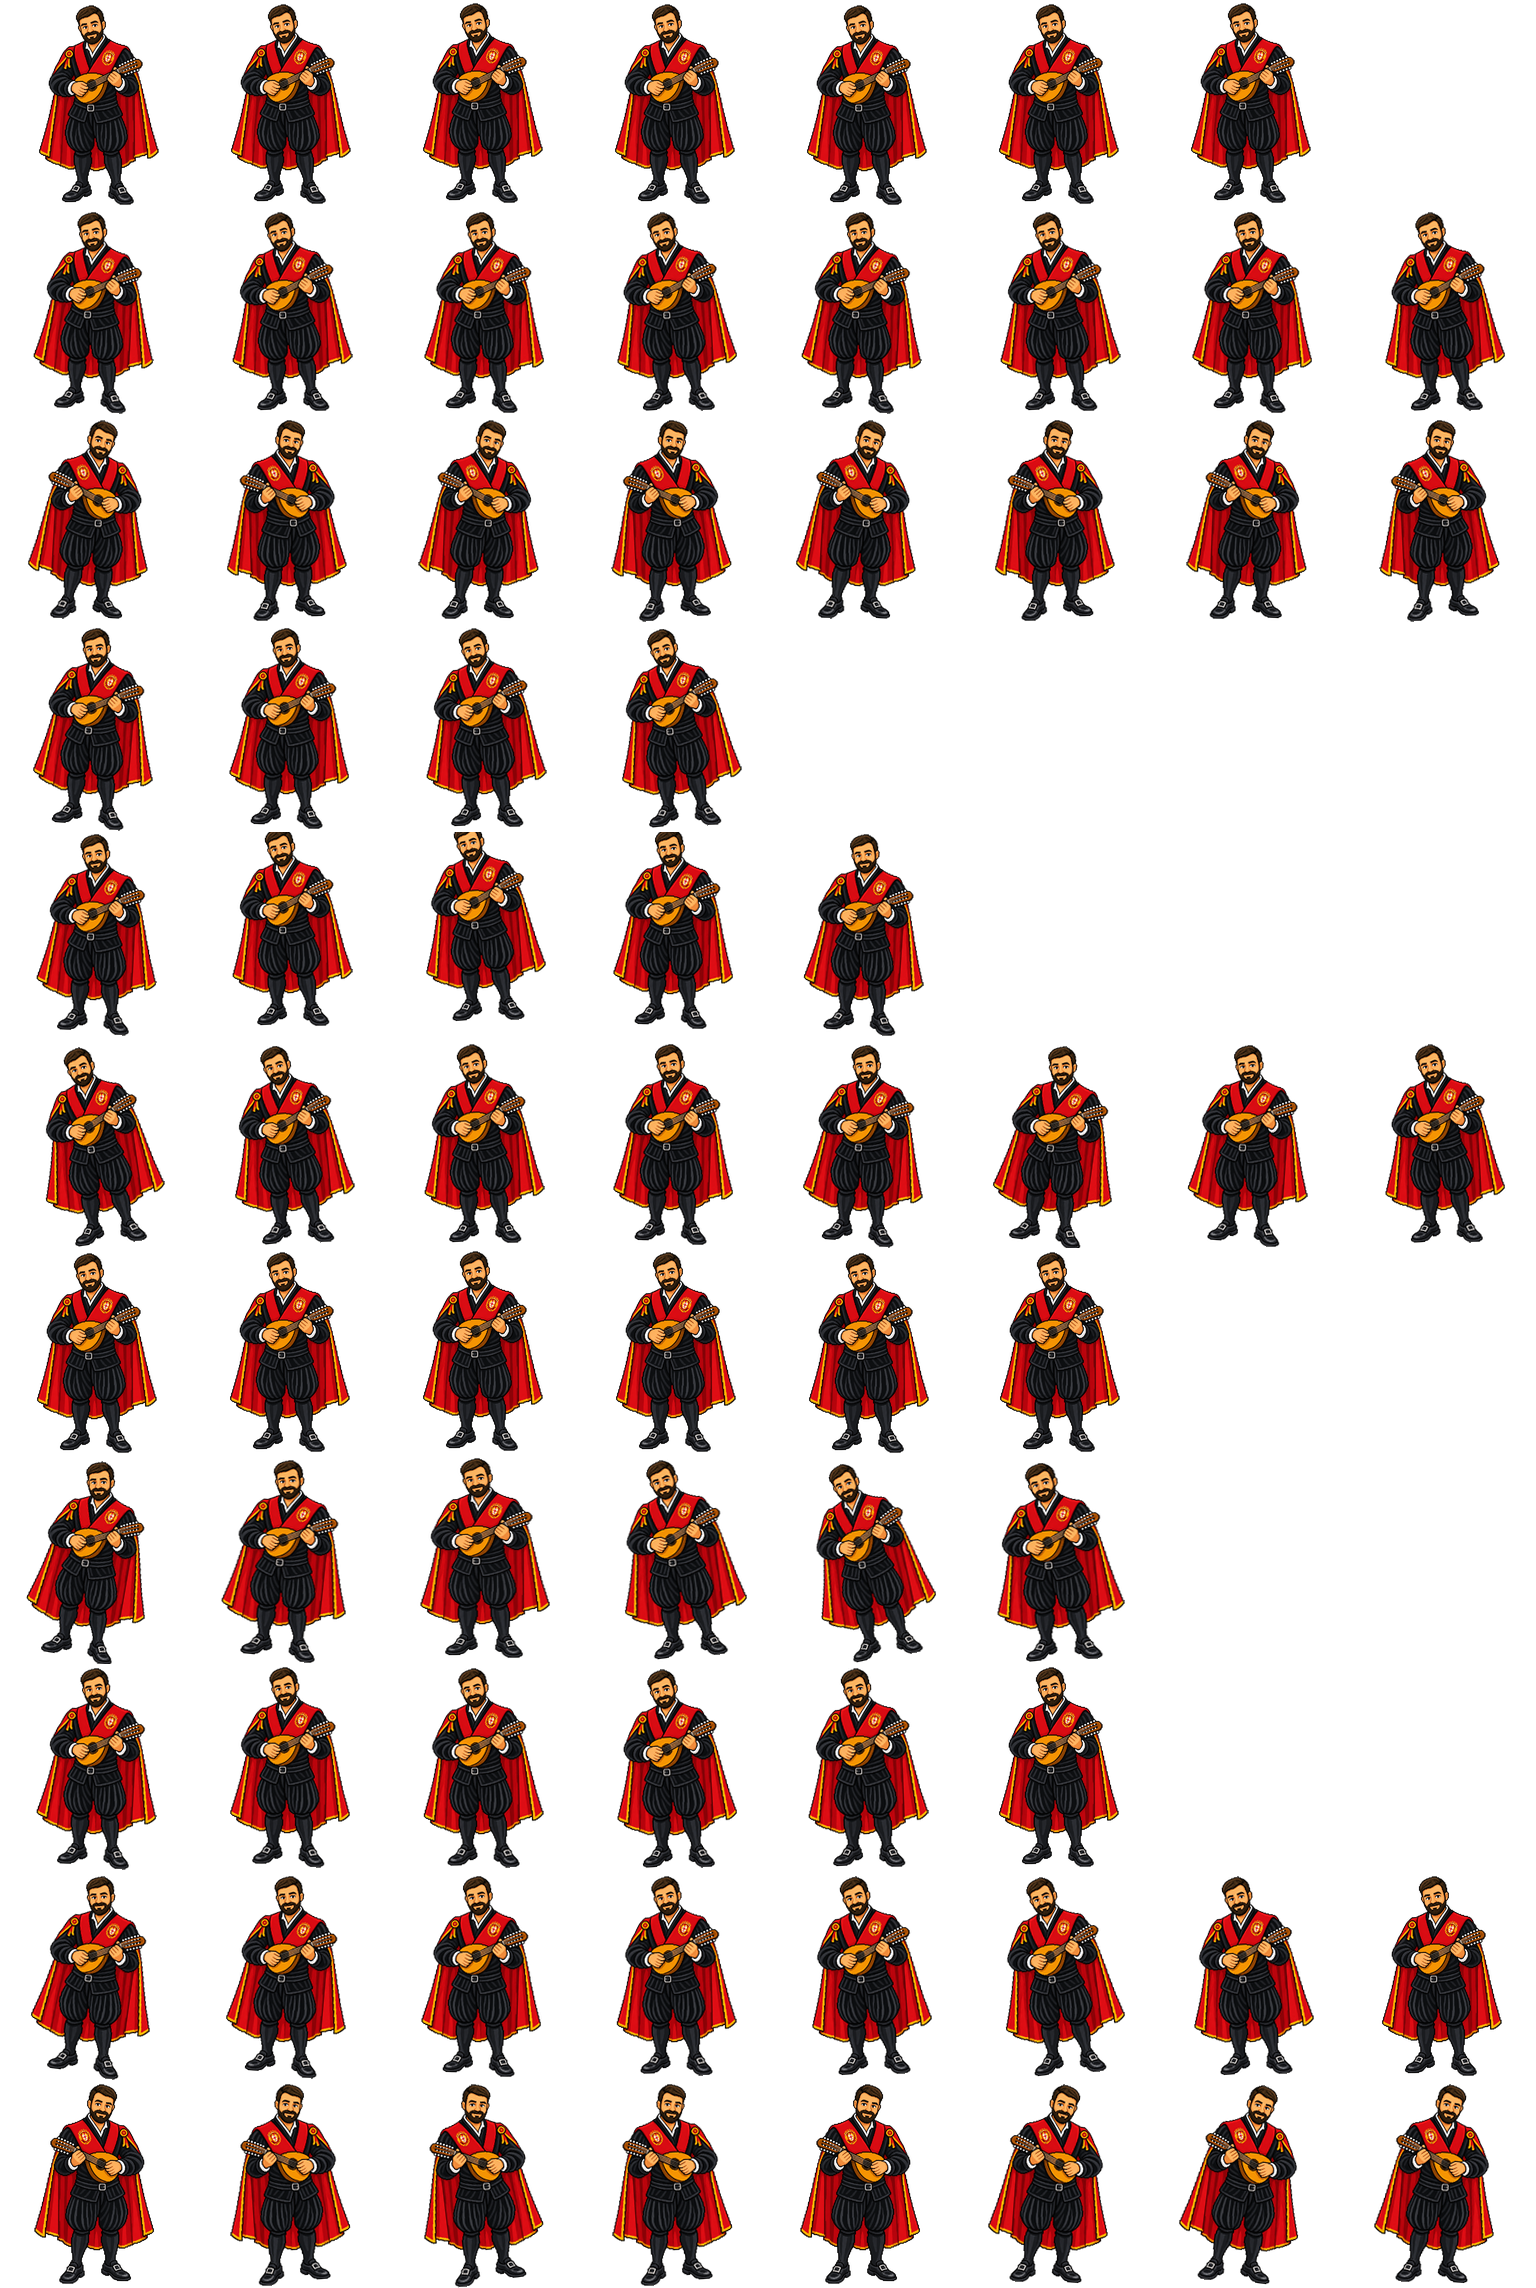
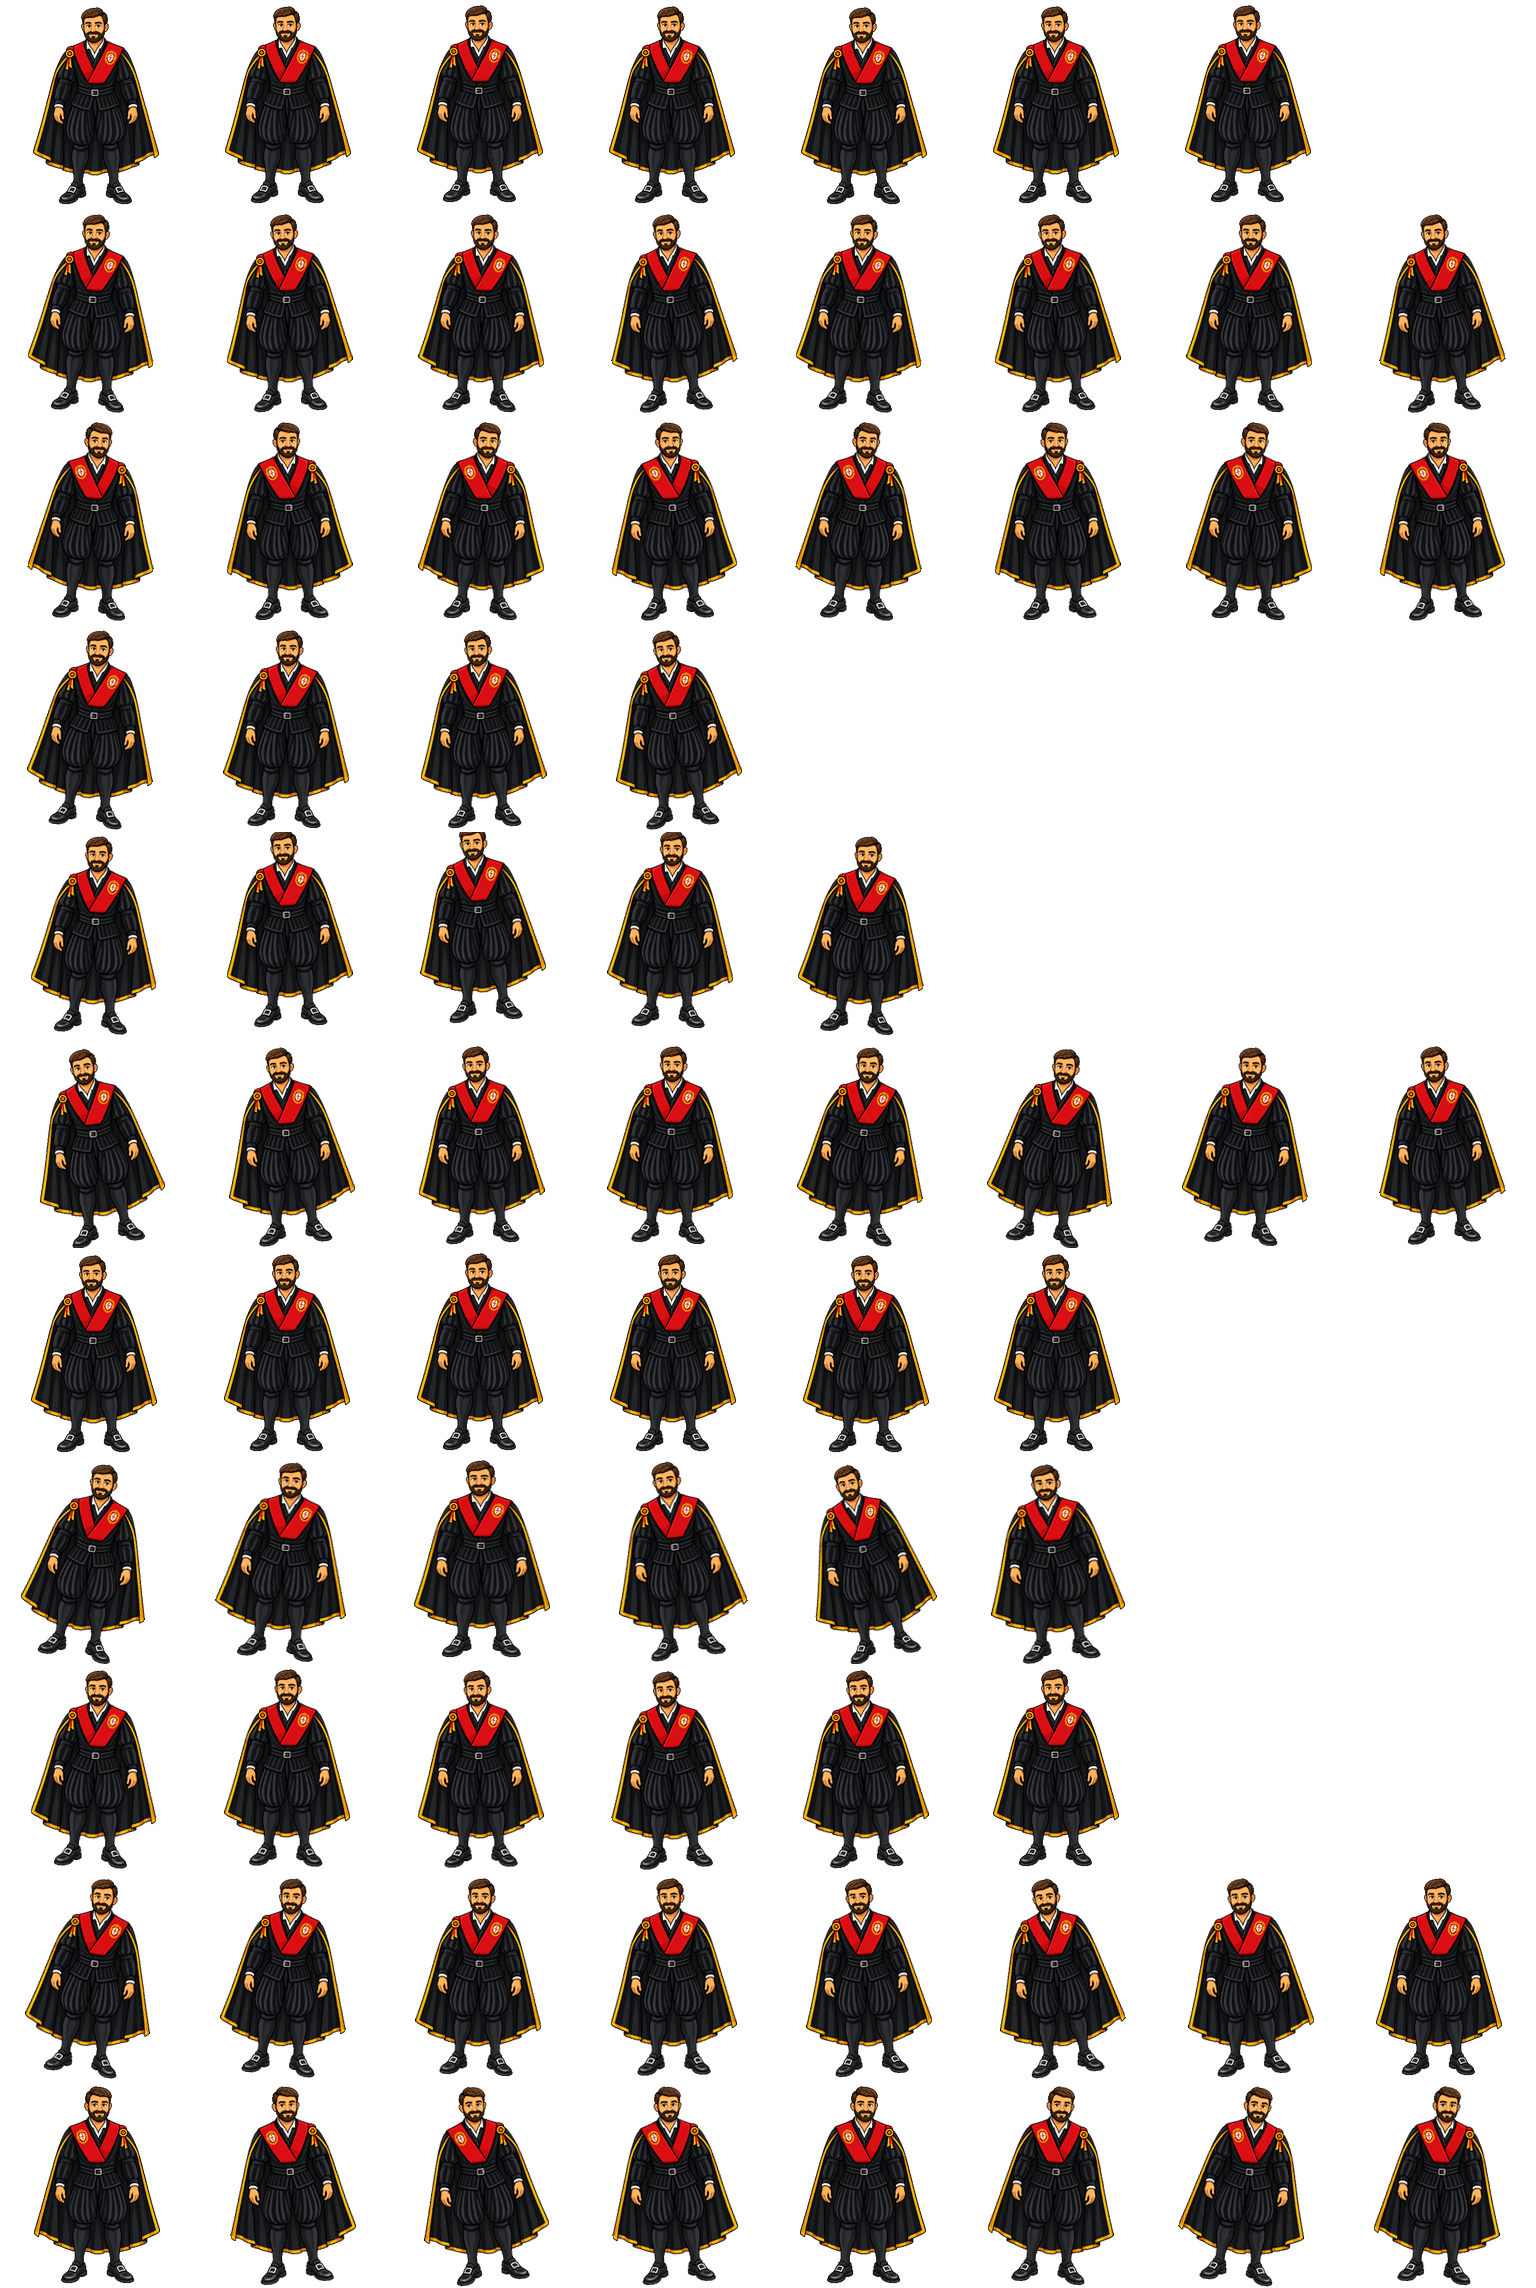
Update tuno mascot with black cape

diff --git a/tools/build_tuno_mascot.py b/tools/build_tuno_mascot.py
@@ -1,11 +1,42 @@
 from PIL import Image, ImageOps
 from pathlib import Path
 import json, math
-src=Path(r"C:\Users\pmap1\.codex\generated_images\01a07236-a688-7701-a20d-0cfad10d2b21\exec-d750dd2f-2b0b-4078-8973-1de0e6ded43d.png")
+from collections import deque
+src=Path(r"E:\PROYECTOS\CHAT GPT\Stunafy\design\mascots\tuno-base.png")
 out=Path(r"E:\PROYECTOS\CHAT GPT\Stunafy\public\assets\mascots")
 out.mkdir(parents=True,exist_ok=True)
 im=Image.open(src).convert('RGBA')
+# Remove the checkerboard preview background while preserving enclosed white costume details.
+pix=im.load(); w,h=im.size; q=deque(); seen=set()
+def is_bg(x,y):
+    r,g,b,a=pix[x,y]
+    return a>0 and max(r,g,b)-min(r,g,b)<8 and min(r,g,b)>140
+for x in range(w):
+    for y in (0,h-1):
+        if is_bg(x,y) and (x,y) not in seen: seen.add((x,y)); q.append((x,y))
+for y in range(h):
+    for x in (0,w-1):
+        if is_bg(x,y) and (x,y) not in seen: seen.add((x,y)); q.append((x,y))
+while q:
+    x,y=q.popleft(); r,g,b,a=pix[x,y]; pix[x,y]=(r,g,b,0)
+    for nx,ny in ((x-1,y),(x+1,y),(x,y-1),(x,y+1)):
+        if 0<=nx<w and 0<=ny<h and (nx,ny) not in seen and is_bg(nx,ny):
+            seen.add((nx,ny)); q.append((nx,ny))
 alpha=im.getchannel('A'); bbox=alpha.getbbox(); im=im.crop(bbox)
+# Drop tiny disconnected matte specks left outside the character silhouette.
+pix=im.load(); w,h=im.size; seen=set()
+for sy in range(h):
+    for sx in range(w):
+        if (sx,sy) in seen or pix[sx,sy][3]==0: continue
+        stack=[(sx,sy)]; seen.add((sx,sy)); component=[]
+        while stack:
+            x,y=stack.pop(); component.append((x,y))
+            for nx,ny in ((x-1,y),(x+1,y),(x,y-1),(x,y+1)):
+                if 0<=nx<w and 0<=ny<h and (nx,ny) not in seen and pix[nx,ny][3]>0:
+                    seen.add((nx,ny)); stack.append((nx,ny))
+        if len(component)<80:
+            for x,y in component:
+                r,g,b,a=pix[x,y]; pix[x,y]=(r,g,b,0)
 cell_w,cell_h=192,208
 # Keep a complete body with breathing room inside every cell.
 scale=min((cell_h-8)/im.height,(cell_w-12)/im.width)
